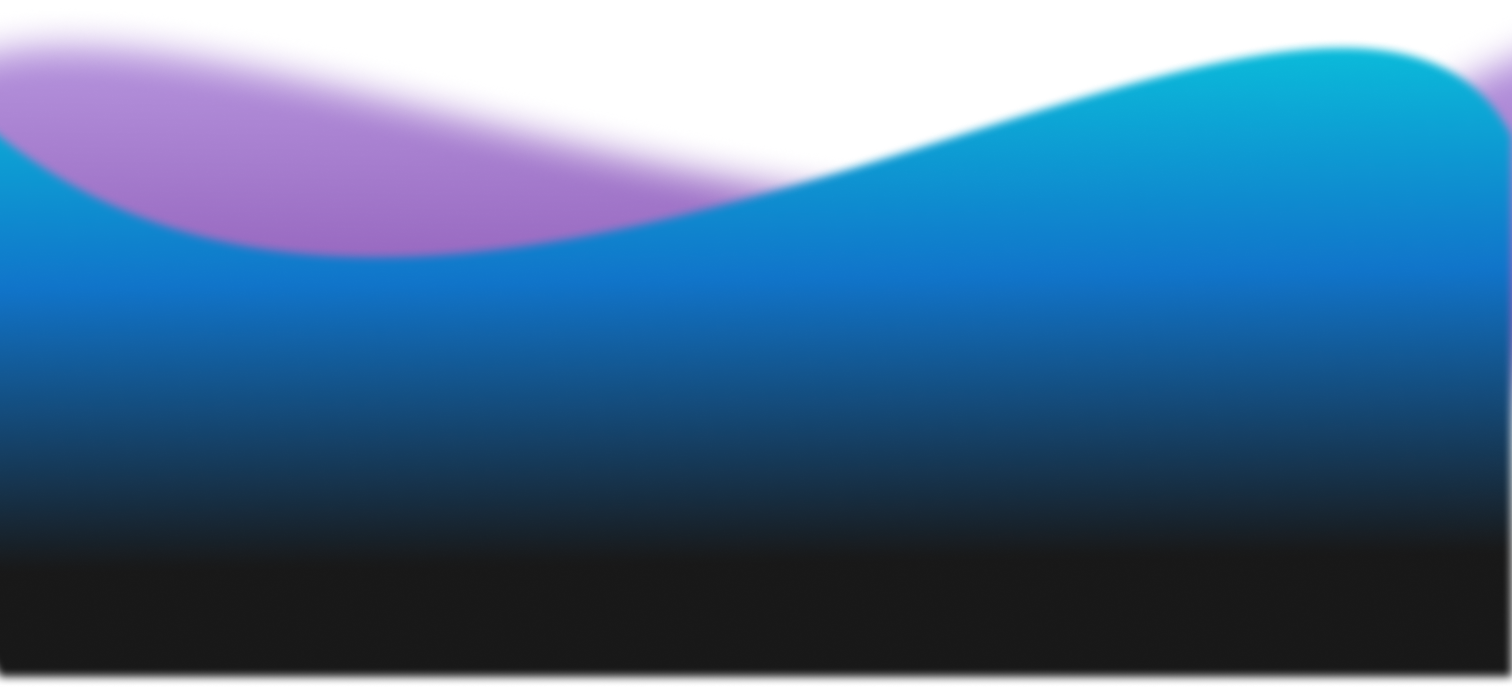
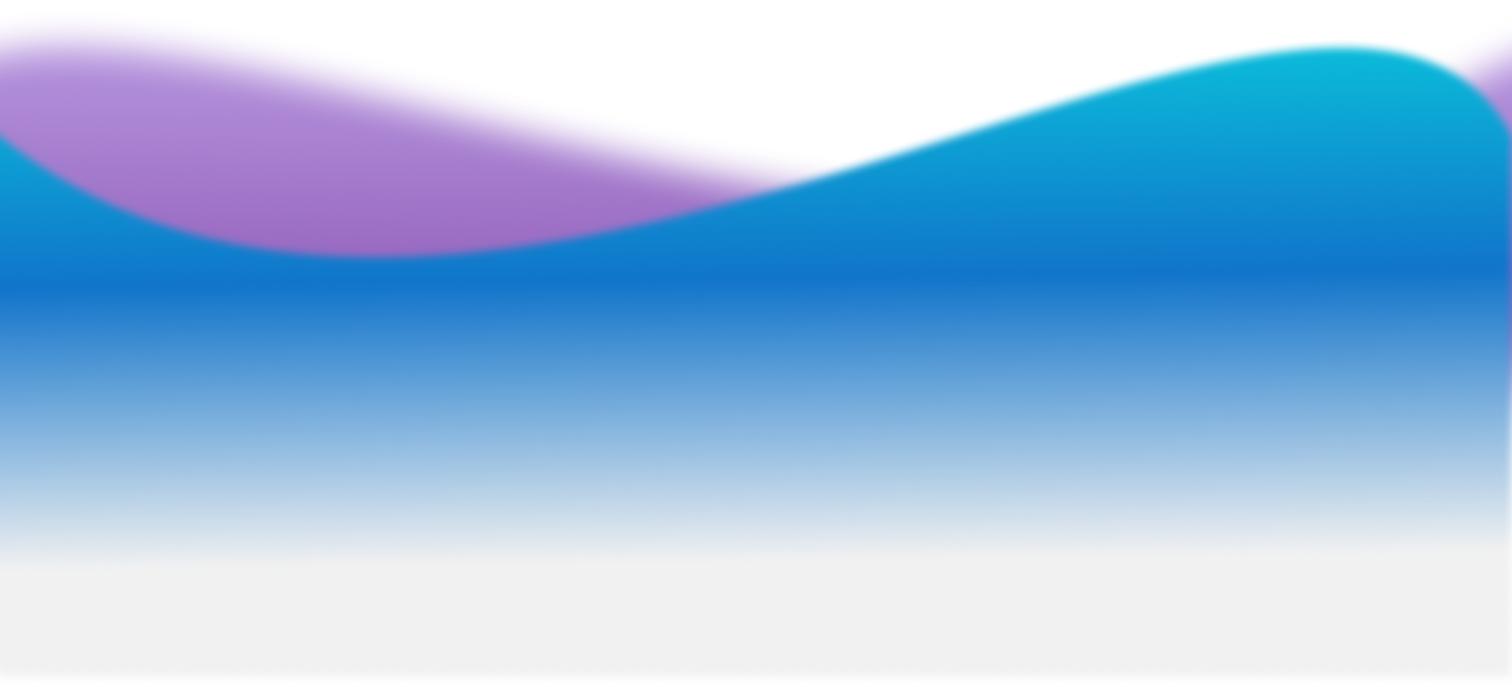
added blur effect to the experience section and made it light

diff --git a/src/components/ExperienceComponent.vue b/src/components/ExperienceComponent.vue
@@ -1,9 +1,15 @@
 <template id="experience">
-  <section id="experience" class="bg-[#181818] -translate-y-4" ref="experienceSection">
+  <!-- Fixed bottom 35% blur effect that's only visible when experience section is in view but purple wave is not -->
+  <div
+    v-if="isSectionVisible && !isPurpleWaveVisible"
+    class="fixed bottom-0 left-0 right-0 h-[35vh] z-[999] pointer-events-none bottom-blur"
+  ></div>
+
+  <section id="experience" class="bg-[#f1f1f1] -translate-y-4 relative" ref="experienceSection">
     <div class="relative py-16 sm:py-24">
       <div class="mb-8 px-6 mx-auto max-w-6xl lg:px-8">
-        <p class="font-inter text-[35px] text-[#DF97C0]" style="text-shadow: 0 0 8px #cd348b">
-          experience
+        <p class="font-inter text-[35px] text-[#2A82CE]" style="text-shadow: 0 0 8px #94bee2">
+          my experience
         </p>
       </div>
       <div class="cards-wrapper overflow-hidden">
@@ -21,21 +27,21 @@
               :style="getCardStyle(statIndex + getColumnStartIndex(colIndex))"
             >
               <div class="flex items-start gap-x-4 mb-3">
-                <p class="font-inter font-black text-[16px] text-[#181818] shrink-0">
+                <p class="font-inter font-black text-[16px] text-[#f1f1f1] shrink-0">
                   {{ stat.name }}
                 </p>
                 <div class="flex flex-col">
-                  <p class="font-inter font-bold text-[14px] text-[#181818]">{{ stat.value }}</p>
-                  <p class="font-inter text-[12px] text-[#181818]">{{ stat.date }}</p>
+                  <p class="font-inter font-bold text-[14px] text-[#f1f1f1]">{{ stat.value }}</p>
+                  <p class="font-inter text-[12px] text-[#f1f1f1]">{{ stat.date }}</p>
                 </div>
               </div>
               <div class="mt-2">
-                <p class="font-inter text-[13px] text-[#181818] mb-2">{{ stat.description }}</p>
+                <p class="font-inter text-[13px] text-[#f1f1f1] mb-2">{{ stat.description }}</p>
                 <div class="flex flex-wrap gap-2">
                   <span
                     v-for="skill in stat.skills"
                     :key="skill"
-                    class="px-4 py-2 rounded-md bg-[#181818] border border-[#DF97C0] text-[#F1F1F1] text-[11px] font-inter"
+                    class="px-4 py-2 rounded-md bg-[#f1f1f1] border border-[#f1f1f1] text-[#181818] text-[11px] font-inter"
                   >
                     {{ skill }}
                   </span>
@@ -46,14 +52,33 @@
         </div>
       </div>
     </div>
+    <div
+      class="w-screen relative left-1/2 right-1/2 -mx-[50vw] -mb-5"
+      style="margin-left: calc(-50vw + 0px); margin-right: calc(-50vw + 0px)"
+    >
+      <img 
+        ref="purpleWaveRef" 
+        :src="purpleWave" 
+        alt="purple wave" 
+        class="w-full h-auto object-cover relative z-10" 
+      />
+    </div>
   </section>
 </template>
 
 <script setup>
-import { computed, ref, onMounted, onUnmounted, reactive } from 'vue'
+import { computed, ref, onMounted, onUnmounted } from 'vue'
+import purpleWave from '/purple-wave.png'
 
 // Debug flag to log transition points once
 const debugOnce = ref(true)
+
+// Track if section is visible for blur overlay
+const isSectionVisible = ref(false)
+
+// Track if purple wave is visible
+const isPurpleWaveVisible = ref(false)
+const purpleWaveRef = ref(null)
 
 const stats = [
   {
@@ -298,12 +323,6 @@ const getColumnStyle = (colIndex) => {
   const layoutInfo = getResponsiveColumnLayout()
   const columnCount = layoutInfo.initial.count
 
-  // Available width at current progress
-  // Start at 100% of viewport and decrease to target width
-  const viewportWidth = fullScreenWidth.value - 48 // Account for container padding
-  const targetWidth6xl = Math.min(1152, fullScreenWidth.value * 0.9) // Target 6xl width or 90% of screen
-  const availableWidth = viewportWidth - progress * (viewportWidth - targetWidth6xl)
-
   // Column widths percentages (relative to availableWidth)
   let widthPercent = 0
 
@@ -394,66 +413,66 @@ const getCardStyle = (index) => {
   // Make the card height equal to its width initially for square appearance
   const initialSquareSize = initialWidth
 
-  // Calculate final width based on 6xl container and column count
-  const finalContainerWidth = targetWidth.value - 48 // Account for padding
-  const finalGapTotal = finalGap * (columnCount - 1)
-  let finalColumnWidth
-
-  if (columnCount === 1) {
-    finalColumnWidth = finalContainerWidth
-  } else if (columnCount === 2) {
-    finalColumnWidth = (finalContainerWidth - finalGapTotal) / 2
-  } else {
-    finalColumnWidth = (finalContainerWidth - finalGapTotal) / 3
-  }
-
   // Interpolate height from square to rectangle
   const currentHeight = initialSquareSize - progress * (initialSquareSize - finalCardHeight)
 
   // Calculate column width at current progress point
-  let currentColumnWidthPercent
-  if (columnCount === 1) {
-    currentColumnWidthPercent = 100
-  } else if (columnCount === 2) {
-    if (currentColumn === 0) {
-      // First column transitions from ~41.7% to 50%
-      currentColumnWidthPercent = 100 / 2.4 + progress * (50 - 100 / 2.4)
-    } else {
-      // Second column transitions from ~58.3% to 50%
-      currentColumnWidthPercent = (100 / 2.4) * 1.4 - progress * ((100 / 2.4) * 1.4 - 50)
-    }
-  } else {
-    if (currentColumn === 1) {
-      // Middle column transitions from ~43% to 33.3%
-      currentColumnWidthPercent = (100 / 3.5) * 1.5 - progress * ((100 / 3.5) * 1.5 - 33.3)
-    } else {
-      // Side columns transition from ~28.6% to 33.3%
-      currentColumnWidthPercent = 100 / 3.5 + progress * (33.3 - 100 / 3.5)
-    }
-  }
-
-  // Calculate actual column width at current progress
-  const currentColumnWidth =
-    (viewportWidth - (columnCount - 1) * (initialGap - progress * (initialGap - finalGap))) *
-    (currentColumnWidthPercent / 100)
 
   // Background zoom interpolation
   const startZoom = 120 // Initial zoom percentage
   const endZoom = 140 // Final zoom percentage
   const currentZoom = startZoom + progress * (endZoom - startZoom)
 
-  // Background position interpolation
-  const startPosition = 'center'
-  const endPosition = getBackgroundPosition(index)
-  const currentPosition = progress >= 0.8 ? endPosition : startPosition
+  // Background position interpolation - make it gradual
+  const positions = {
+    start: 'center',
+    end: getBackgroundPosition(index),
+  }
+
+  // Parse the positions for smooth interpolation
+  const parsePosition = (posStr) => {
+    // Default to center if not specified
+    if (!posStr || posStr === 'center') return { x: 50, y: 50 }
+
+    // Parse vertical and horizontal positions
+    const [vertical, horizontal] = posStr.split(' ').map((p) => p.trim())
+
+    let x = 50,
+      y = 50 // Default center
+
+    // Parse horizontal position
+    if (horizontal) {
+      if (horizontal === 'left') x = 0
+      else if (horizontal === 'right') x = 100
+      else if (horizontal === 'center') x = 50
+    }
+
+    // Parse vertical position
+    if (vertical === 'top') y = 0
+    else if (vertical === 'bottom') y = 100
+    else if (vertical === 'center') y = 50
+
+    return { x, y }
+  }
+
+  // Parse start and end positions
+  const startPos = parsePosition(positions.start)
+  const endPos = parsePosition(positions.end)
+
+  // Interpolate between positions
+  const currentX = startPos.x + progress * (endPos.x - startPos.x)
+  const currentY = startPos.y + progress * (endPos.y - startPos.y)
+
+  // Format as CSS background-position
+  const currentPosition = `${currentY}% ${currentX}%`
 
   return {
     height: `${currentHeight}px`,
     width: `100%`, // Take up full column width
-    backgroundImage: `linear-gradient(rgba(255, 255, 255, 0.2), rgba(255, 255, 255, 0.2)), url('/exp-${(index % 8) + 1}.png')`,
+    backgroundImage: `linear-gradient(rgba(20, 20, 20, 0.4), rgba(9, 9, 9, 0.55)), url('/exp-${(index % 8) + 1}.png')`,
     backgroundSize: `${currentZoom}%`,
     backgroundPosition: currentPosition,
-    transform: `translateZ(${-50 + progress * 50}px)`, // Start at -50px, end at 0
+    transform: `translateZ(${-50 + progress * 50}px)`,
     display: 'flex',
     flexDirection: 'column',
     padding: '1.5rem',
@@ -462,7 +481,9 @@ const getCardStyle = (index) => {
     overflow: 'hidden',
     position: 'relative',
     boxShadow: '0 10px 30px rgba(0, 0, 0, 0.1)',
-    transition: 'none', // We control the transition manually with scroll
+    transition: 'background-position 0.5s ease-out', // Add smooth transition for background position
+    backfaceVisibility: 'hidden', // Prevent flickering during transform
+    willChange: 'transform, height, background-position', // Optimize for animations
   }
 }
 
@@ -472,6 +493,33 @@ const updateTransitionProgress = () => {
 
   const rect = experienceSection.value.getBoundingClientRect()
   const windowHeight = window.innerHeight
+
+  // Check if any part of the section is visible in the viewport
+  // We consider it visible if either:
+  // 1. The top is above the bottom of viewport AND bottom is below the top of viewport
+  // 2. The section is larger than viewport and completely encompasses it
+  const isVisible =
+    (rect.top < windowHeight && rect.bottom > 0) || (rect.top <= 0 && rect.bottom >= windowHeight)
+
+  // Update section visibility
+  isSectionVisible.value = isVisible
+  
+  // Check if purple wave is visible
+  if (purpleWaveRef.value && isVisible) {
+    const waveRect = purpleWaveRef.value.getBoundingClientRect();
+    // Wave is considered completely visible when its top and bottom are both in the viewport
+    const waveIsCompletelyVisible = waveRect.top >= 0 && waveRect.bottom <= windowHeight;
+    
+    // Only log when visibility changes
+    if (waveIsCompletelyVisible !== isPurpleWaveVisible.value) {
+      isPurpleWaveVisible.value = waveIsCompletelyVisible;
+      console.log(`Purple wave completely visible: ${waveIsCompletelyVisible}`);
+    } else {
+      isPurpleWaveVisible.value = waveIsCompletelyVisible;
+    }
+  } else {
+    isPurpleWaveVisible.value = false;
+  }
 
   // Calculate when second row enters viewport
   // Estimate first row height (for large screens about 300-400px)
@@ -535,6 +583,12 @@ onMounted(() => {
   // Calculate initial values
   handleResize()
   updateTransitionProgress()
+
+  // Initialize section visibility
+  if (experienceSection.value) {
+    const rect = experienceSection.value.getBoundingClientRect()
+    isSectionVisible.value = rect.top < window.innerHeight && rect.bottom > 0
+  }
 })
 
 onUnmounted(() => {
@@ -566,7 +620,10 @@ onUnmounted(() => {
   position: relative;
   width: 100%;
   margin-bottom: 16px;
-  transition: transform 0.2s ease;
+  transform-style: preserve-3d;
+  transition:
+    transform 0.2s ease,
+    background-position 0.5s ease-out;
 }
 
 /* Add a pseudo-element for depth */
@@ -578,18 +635,48 @@ onUnmounted(() => {
   right: 0;
   bottom: 0;
   background: rgba(255, 255, 255, 0.05);
+  border-radius: 0.5rem;
   z-index: -1;
   pointer-events: none;
 }
 
+/* Bottom blur gradient effect with stronger blur */
+.bottom-blur {
+  /* No background color or gradient - completely transparent */
+  background: transparent;
+  /* No border */
+  border: none;
+  /* No shadow */
+  box-shadow: none;
+  /* Custom mask to create blur gradient */
+  mask-image: linear-gradient(to bottom, transparent, black);
+  -webkit-mask-image: linear-gradient(to bottom, transparent, black);
+  /* Apply much stronger blur */
+  backdrop-filter: blur(25px);
+  -webkit-backdrop-filter: blur(25px);
+}
+
+/* Fallback for browsers without backdrop-filter */
+@supports not ((backdrop-filter: blur(25px)) or (-webkit-backdrop-filter: blur(25px))) {
+  .bottom-blur {
+    background: linear-gradient(
+      to bottom,
+      rgba(241, 241, 241, 0) 0%,
+      rgba(241, 241, 241, 0.5) 50%,
+      rgba(241, 241, 241, 0.9) 100%
+    );
+  }
+}
+
+/* Start of animations */
 /* Add floating animation for cards when scrolled into view */
 @keyframes floatEffect {
   0%,
   100% {
-    transform: translateY(0);
+    transform: translateY(0) translateZ(0);
   }
   50% {
-    transform: translateY(-5px);
+    transform: translateY(-5px) translateZ(0);
   }
 }
 
